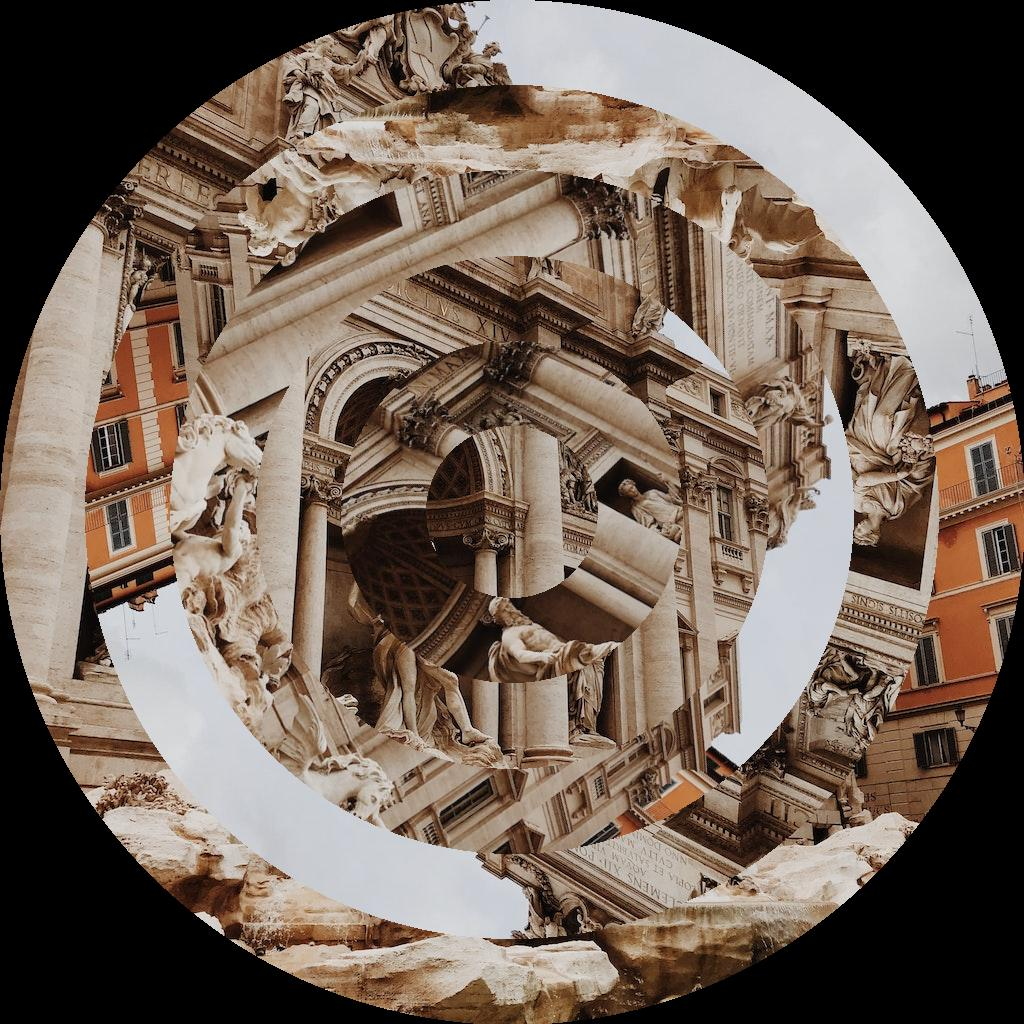
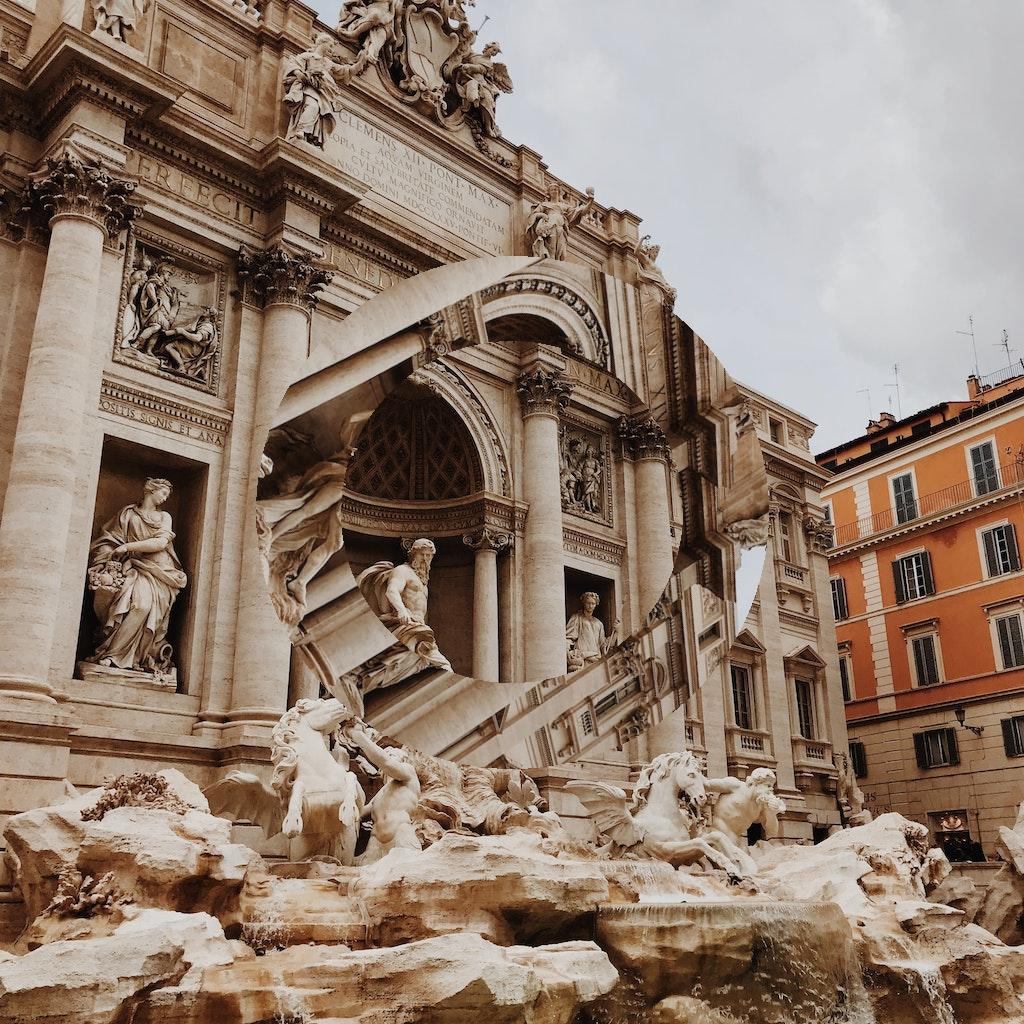
Background image added to fill in corners

diff --git a/app/scrambler.py b/app/scrambler.py
@@ -8,7 +8,7 @@ from .tile import Tile
 
 
 def scramble_rows(picture: Picture) -> None:
-    """Split an Image up into rows an rearranges them."""
+    """Split an Image up into rows and rearranges them."""
     num_tiles = 8
     image_size = picture.image.size
     tile_size = (image_size[0], int(image_size[1] / num_tiles))
@@ -22,7 +22,7 @@ def scramble_rows(picture: Picture) -> None:
 
 
 def scramble_grid(picture: Picture, num_of_tiles: int = 4) -> None:
-    """Split an Image up into tiles an rearranges them and rotates each tile randomly."""
+    """Split an Image up into tiles and rearranges them and rotates each tile randomly."""
     co_ordinates = [
         (0, 0, 512, 512),
         (512, 0, 1024, 512),
@@ -69,14 +69,17 @@ def scramble_grid(picture: Picture, num_of_tiles: int = 4) -> None:
 
 
 def scramble_circle(picture: Picture) -> None:
-    """Split an Image up into rows an rearranges them."""
+    """Split an Image up into circles and rearranges them."""
     num_tiles = 6
     image = picture.image
     width, height = picture.image.size
     center = (width // 2, height // 2)
     radiusvar = min(width, height) / (2 * num_tiles)
 
-    for i in range(num_tiles):
+    background = Tile(image, (0, 0), 0)
+
+    picture.tiles[0] = background
+    for i in range(1, num_tiles):
         ring = Image.new("RGBA", (width, height), (0, 0, 0, 0))
 
         inner_radius = radiusvar * i
